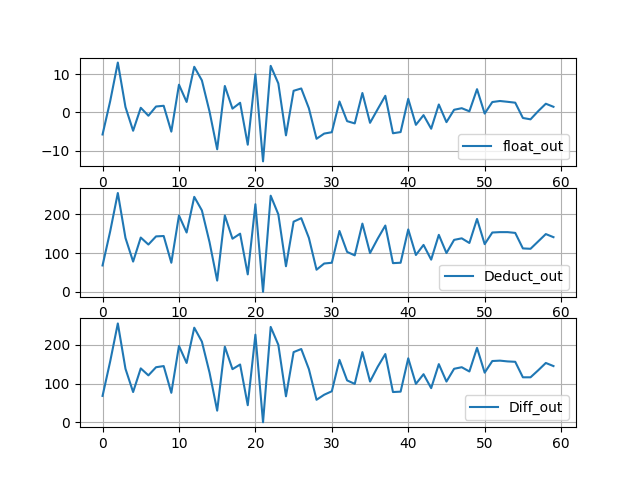
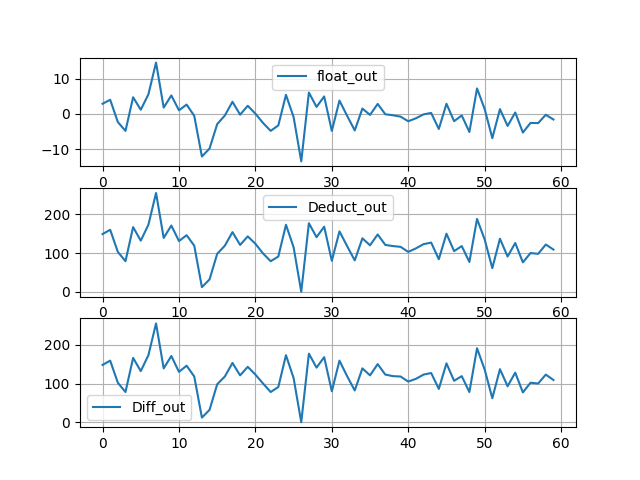
modified:   float_out_Deduct_out_Diff_out.png 	modified:   main.py

diff --git a/main.py b/main.py
@@ -156,12 +156,17 @@ def diff_VMM(voltages, conductances, v_range, g_range):
     # Compute the output vector
     out = np.matmul(qtz_voltages, qtz_conductances)
     median_out = np.matmul(qtz_voltages, median_g * np.ones((qtz_conductances.shape[0], qtz_conductances.shape[1])))
-    out = out - median_out - c * np.matmul(b * np.ones((qtz_voltages.shape[0], qtz_voltages.shape[1])), conductances) 
     
-    # Quantize the output vector to the range [0, 255]
     min_out = np.min(out)
     max_out = np.max(out)
+    
+    out = out - c * np.matmul(b * np.ones((qtz_voltages.shape[0], qtz_voltages.shape[1])), conductances)
+    
+    # Quantize the output vector to the range [0, 255]
     qtz_out = np.round((out - min_out) / (max_out - min_out) * 255)
+    qtz_median_out = np.round((median_out - min_out) / (max_out - min_out) * 255)
+    qtz_out = qtz_out - qtz_median_out
+    qtz_out = np.round((qtz_out - np.min(qtz_out)) / (np.max(qtz_out) - np.min(qtz_out)) * 255)
     
     return qtz_out, a, b, c, d, max_out, min_out
 
@@ -215,6 +220,7 @@ if __name__ == '__main__':
     Quan_out, a, b, c, d, max_range, min_range = Quantize_VMM(float_in, float_weight, v_range, g_range)
     Deduct_out = Deduct_VM(Quan_out, a, b, c, d, max_range, min_range, float_in, float_weight)
     Diff_out, a, b, c, d, max_range, min_range = diff_VMM(float_in, float_weight, v_range, g_range)
+    print(np.sum(np.abs(Deduct_out - Diff_out)))
     
     # plot float_out and Deduct_out and Diff_out in a figure with three subplots
     plt.figure()
